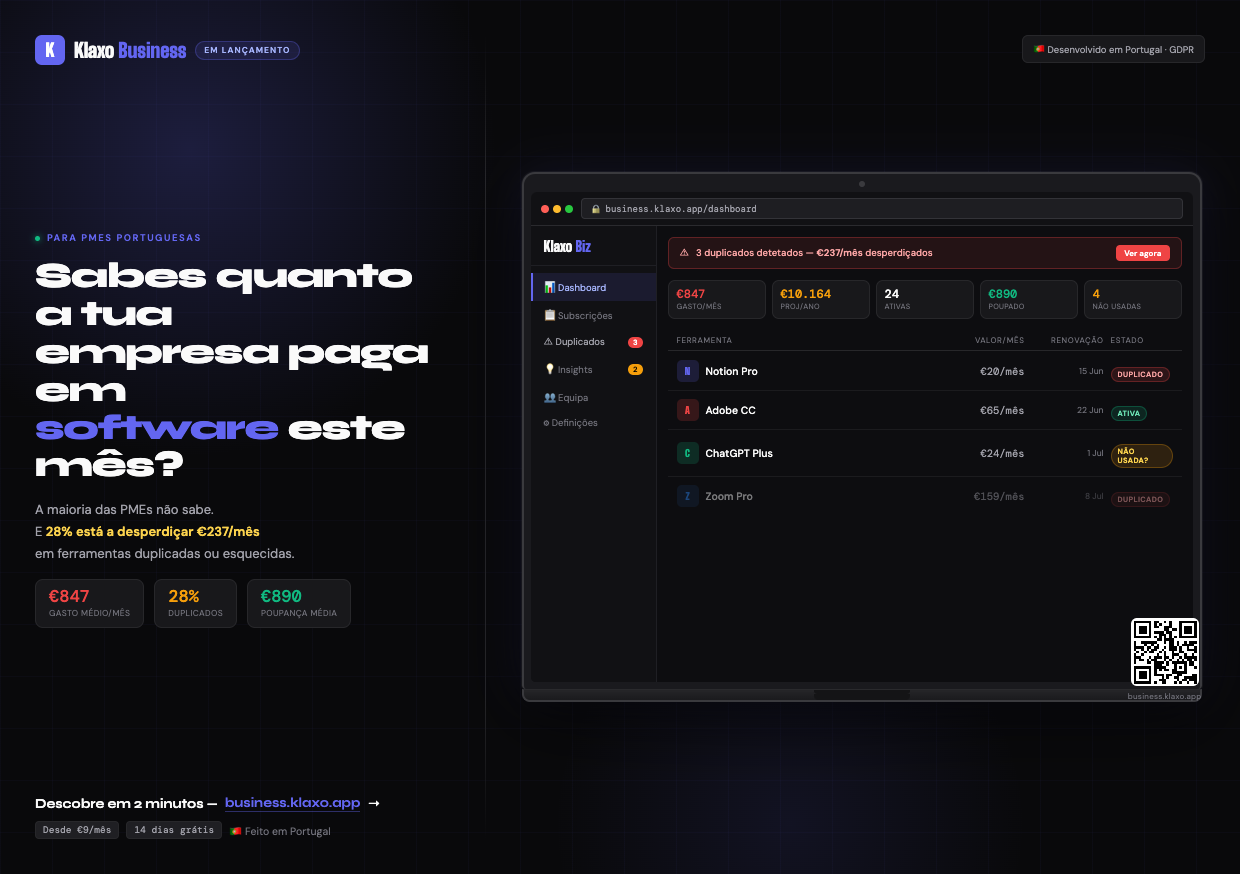
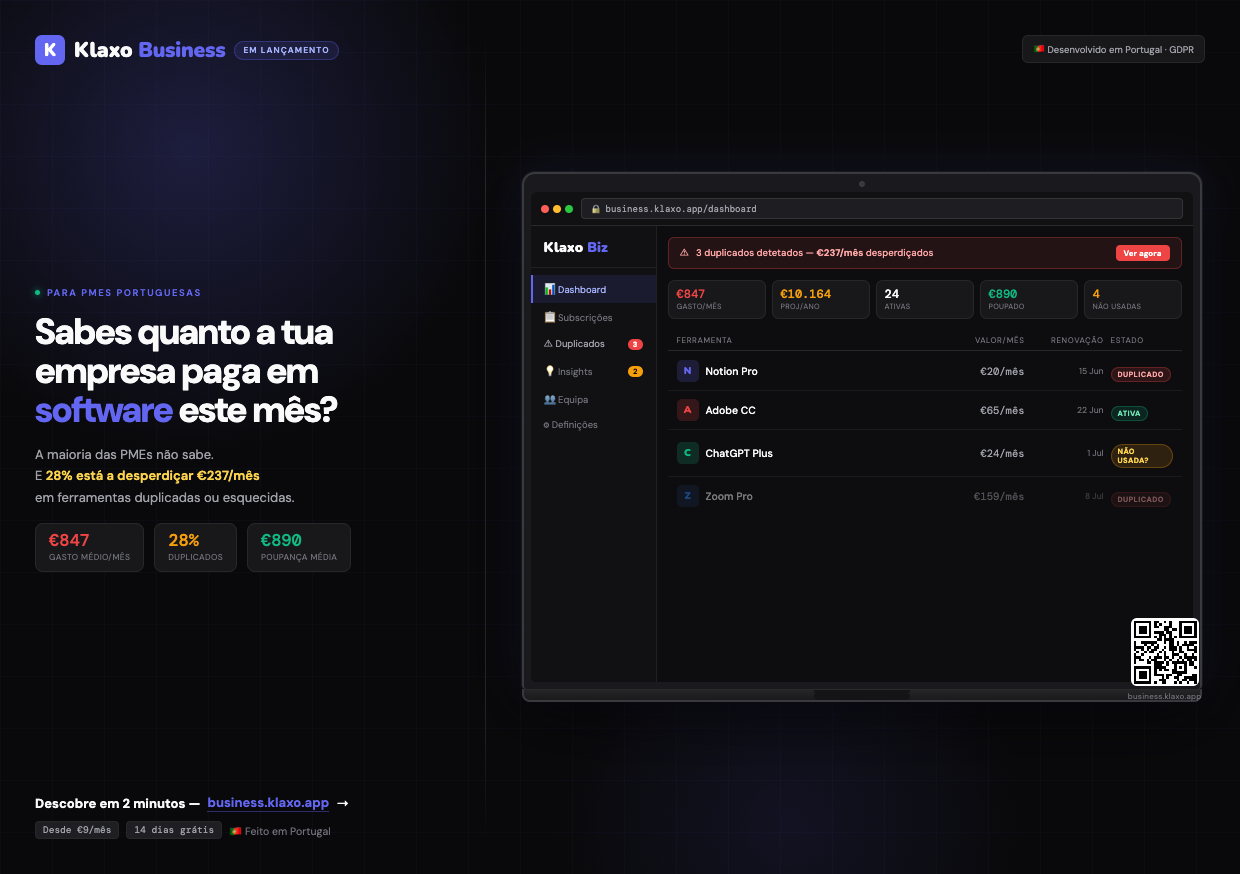
fix(flyers): Nunito 900 na logomarca, DM Sans nos títulos (fontes do site)

diff --git a/public/flyer-business.html b/public/flyer-business.html
@@ -5,7 +5,7 @@
 <title>Klaxo Business Flyer</title>
 <link rel="preconnect" href="https://fonts.googleapis.com"/>
 <link rel="preconnect" href="https://fonts.gstatic.com" crossorigin/>
-<link href="https://fonts.googleapis.com/css2?family=Big+Shoulders+Display:wght@900&family=Syne:wght@700;800&family=DM+Sans:ital,opsz,wght@0,9..40,400;0,9..40,500;0,9..40,600&family=DM+Mono:wght@400;500&display=swap" rel="stylesheet"/>
+<link href="https://fonts.googleapis.com/css2?family=Nunito:wght@900&family=DM+Sans:ital,opsz,wght@0,9..40,400;0,9..40,500;0,9..40,600;0,9..40,700;0,9..40,800&family=DM+Mono:wght@400;500&display=swap" rel="stylesheet"/>
 <style>
   *, *::before, *::after { box-sizing: border-box; margin: 0; padding: 0; }
   :root {
@@ -34,8 +34,8 @@
   .copy-col { width:418px; flex-shrink:0; display:flex; flex-direction:column; justify-content:space-between; z-index:2; }
 
   .logo-row { display:flex; align-items:center; gap:9px; }
-  .logo-icon { width:30px; height:30px; background:var(--v); border-radius:7px; display:flex; align-items:center; justify-content:center; font-family:'Big Shoulders Display',sans-serif; font-weight:900; font-size:18px; color:#fff; flex-shrink:0; }
-  .logo-text { font-family:'Big Shoulders Display',sans-serif; font-weight:900; font-size:20px; letter-spacing:-.01em; color:var(--t); }
+  .logo-icon { width:30px; height:30px; background:var(--v); border-radius:7px; display:flex; align-items:center; justify-content:center; font-family:'Nunito',sans-serif; font-weight:900; font-size:17px; color:#fff; flex-shrink:0; }
+  .logo-text { font-family:'Nunito',sans-serif; font-weight:900; font-size:21px; letter-spacing:-.01em; color:var(--t); }
   .logo-text em { font-style:normal; color:var(--v); }
   .launch-badge { background:var(--v10); border:1px solid rgba(99,102,241,.3); color:#A5B4FC; font-size:8.5px; font-weight:600; letter-spacing:.12em; padding:3px 8px; border-radius:100px; }
 
@@ -44,7 +44,7 @@
   .eyebrow { display:flex; align-items:center; gap:7px; font-size:9.5px; font-weight:600; letter-spacing:.16em; color:var(--v); text-transform:uppercase; }
   .eyebrow-dot { width:5px; height:5px; border-radius:50%; background:var(--g); box-shadow:0 0 7px var(--g); }
 
-  h1 { font-family:'Syne',sans-serif; font-weight:800; font-size:35px; line-height:1.08; letter-spacing:-.032em; color:var(--t); }
+  h1 { font-family:'DM Sans',sans-serif; font-weight:800; font-size:36px; line-height:1.08; letter-spacing:-.03em; color:var(--t); }
   h1 em { font-style:normal; color:var(--v); }
 
   .sub { font-size:13px; line-height:1.68; color:var(--m); }
@@ -57,7 +57,7 @@
   .sl { font-size:8.5px; color:var(--m2); text-transform:uppercase; letter-spacing:.04em; margin-top:3px; }
 
   .bottom-copy { display:flex; flex-direction:column; gap:9px; }
-  .cta-line { font-family:'Syne',sans-serif; font-size:13px; font-weight:700; color:var(--t); display:flex; align-items:center; gap:7px; flex-wrap:wrap; }
+  .cta-line { font-family:'DM Sans',sans-serif; font-size:13px; font-weight:700; color:var(--t); display:flex; align-items:center; gap:7px; flex-wrap:wrap; }
   .cta-url { color:var(--v); border-bottom:1px solid rgba(99,102,241,.4); }
   .price-note { font-size:10.5px; color:var(--m2); display:flex; align-items:center; gap:7px; flex-wrap:wrap; }
   .pchip { background:var(--s2); border:1px solid var(--bd); border-radius:4px; padding:2px 7px; font-family:'DM Mono',monospace; font-size:9.5px; color:var(--m); }
@@ -82,7 +82,7 @@
   .dash { background:#0D0D10; border-radius:0 0 5px 5px; display:flex; min-height:456px; overflow:hidden; }
 
   .sb { width:126px; background:#111114; border-right:1px solid #1F1F24; padding:12px 0; flex-shrink:0; }
-  .sb-logo { padding:0 13px 10px; font-family:'Big Shoulders Display',sans-serif; font-weight:900; font-size:14px; color:var(--t); border-bottom:1px solid #1F1F24; margin-bottom:7px; }
+  .sb-logo { padding:0 13px 10px; font-family:'Nunito',sans-serif; font-weight:900; font-size:14px; color:var(--t); border-bottom:1px solid #1F1F24; margin-bottom:7px; }
   .sb-logo em { font-style:normal; color:var(--v); }
   .ni { padding:6px 13px; font-size:9.5px; color:var(--m2); display:flex; align-items:center; justify-content:space-between; }
   .ni.act { background:var(--v10); color:#A5B4FC; border-left:2px solid var(--v); padding-left:11px; }
@@ -103,7 +103,7 @@
   .tr { display:grid; grid-template-columns:1fr 78px 72px 62px; gap:7px; padding:8px 9px; border-bottom:1px solid rgba(39,39,42,.55); align-items:center; }
   .tr:last-child { border-bottom:none; }
   .tc { display:flex; align-items:center; gap:7px; }
-  .ti { width:22px; height:22px; border-radius:5px; display:flex; align-items:center; justify-content:center; font-size:10px; font-weight:900; font-family:'Big Shoulders Display',sans-serif; flex-shrink:0; }
+  .ti { width:22px; height:22px; border-radius:5px; display:flex; align-items:center; justify-content:center; font-size:10px; font-weight:900; font-family:'Nunito',sans-serif; flex-shrink:0; }
   .tn { font-size:10.5px; color:var(--t); font-weight:500; }
   .tp { font-family:'DM Mono',monospace; font-size:10.5px; color:var(--m); text-align:right; }
   .trn { font-size:8.5px; color:var(--m2); text-align:right; }

diff --git a/public/flyer-personal.html b/public/flyer-personal.html
@@ -5,7 +5,7 @@
 <title>Klaxo Personal Flyer</title>
 <link rel="preconnect" href="https://fonts.googleapis.com"/>
 <link rel="preconnect" href="https://fonts.gstatic.com" crossorigin/>
-<link href="https://fonts.googleapis.com/css2?family=Big+Shoulders+Display:wght@900&family=Syne:wght@700;800&family=DM+Sans:ital,opsz,wght@0,9..40,400;0,9..40,500;0,9..40,600&family=DM+Mono:wght@400;500&display=swap" rel="stylesheet"/>
+<link href="https://fonts.googleapis.com/css2?family=Nunito:wght@900&family=DM+Sans:ital,opsz,wght@0,9..40,400;0,9..40,500;0,9..40,600;0,9..40,700;0,9..40,800&family=DM+Mono:wght@400;500&display=swap" rel="stylesheet"/>
 <style>
   *,*::before,*::after{box-sizing:border-box;margin:0;padding:0;}
   :root{
@@ -40,7 +40,7 @@
 
   .aheader{padding:7px 13px 9px;border-bottom:1px solid #1F1F24;flex-shrink:0;}
   .agreet{font-size:10px;color:#A1A1AA;margin-bottom:1px;}
-  .atitle{font-family:'Syne',sans-serif;font-size:13px;font-weight:800;color:#FAFAFA;}
+  .atitle{font-family:'DM Sans',sans-serif;font-size:13px;font-weight:800;color:#FAFAFA;}
 
   .totcard{margin:9px 11px 0;background:linear-gradient(135deg,rgba(239,68,68,.15),rgba(239,68,68,.05));border:1px solid rgba(239,68,68,.25);border-radius:11px;padding:9px 13px;flex-shrink:0;}
   .tl{font-size:8.5px;color:#FCA5A5;text-transform:uppercase;letter-spacing:.08em;margin-bottom:2px;}
@@ -49,7 +49,7 @@
 
   .slist{flex:1;overflow:hidden;padding:7px 11px;display:flex;flex-direction:column;gap:2px;}
   .srow{display:flex;align-items:center;gap:7px;padding:5px 7px;border-radius:8px;background:rgba(255,255,255,.03);}
-  .sico{width:24px;height:24px;border-radius:7px;display:flex;align-items:center;justify-content:center;font-size:11px;font-weight:900;font-family:'Big Shoulders Display',sans-serif;flex-shrink:0;}
+  .sico{width:24px;height:24px;border-radius:7px;display:flex;align-items:center;justify-content:center;font-size:11px;font-weight:900;font-family:'Nunito',sans-serif;flex-shrink:0;}
   .sinf{flex:1;min-width:0;}
   .sn{font-size:9.5px;color:#FAFAFA;font-weight:500;}
   .sw{font-size:7.5px;color:var(--y);}
@@ -69,15 +69,15 @@
   .copy-col{flex:1;display:flex;flex-direction:column;justify-content:space-between;z-index:2;padding-left:10px;}
 
   .logo-row{display:flex;align-items:center;gap:9px;}
-  .logo-icon{width:28px;height:28px;background:var(--v);border-radius:6px;display:flex;align-items:center;justify-content:center;font-family:'Big Shoulders Display',sans-serif;font-weight:900;font-size:17px;color:#fff;flex-shrink:0;}
-  .logo-text{font-family:'Big Shoulders Display',sans-serif;font-weight:900;font-size:20px;letter-spacing:-.01em;color:var(--t);}
+  .logo-icon{width:28px;height:28px;background:var(--v);border-radius:6px;display:flex;align-items:center;justify-content:center;font-family:'Nunito',sans-serif;font-weight:900;font-size:17px;color:#fff;flex-shrink:0;}
+  .logo-text{font-family:'Nunito',sans-serif;font-weight:900;font-size:20px;letter-spacing:-.01em;color:var(--t);}
   .pbadge{background:var(--v10);border:1px solid rgba(99,102,241,.22);color:var(--v);font-size:8.5px;font-weight:600;letter-spacing:.1em;padding:3px 9px;border-radius:100px;text-transform:uppercase;}
 
   .hblock{flex:1;display:flex;flex-direction:column;justify-content:center;gap:16px;padding:14px 0;}
   .eyebrow{display:flex;align-items:center;gap:7px;font-size:9.5px;font-weight:600;letter-spacing:.15em;color:var(--v);text-transform:uppercase;}
   .edot{width:5px;height:5px;border-radius:50%;background:var(--v);opacity:.55;}
 
-  h1{font-family:'Syne',sans-serif;font-weight:800;font-size:37px;line-height:1.07;letter-spacing:-.034em;color:var(--t);}
+  h1{font-family:'DM Sans',sans-serif;font-weight:800;font-size:37px;line-height:1.07;letter-spacing:-.034em;color:var(--t);}
   h1 em{font-style:normal;color:var(--v);}
 
   .sub{font-size:13px;line-height:1.68;color:var(--m);}
@@ -89,7 +89,7 @@
 
   .bcopy{display:flex;flex-direction:column;gap:10px;}
   .ctabox{background:var(--v);border-radius:10px;padding:11px 18px;display:inline-flex;align-items:center;justify-content:space-between;gap:10px;max-width:390px;}
-  .ctatxt{font-family:'Syne',sans-serif;font-size:13px;font-weight:700;color:#fff;line-height:1.3;}
+  .ctatxt{font-family:'DM Sans',sans-serif;font-size:13px;font-weight:700;color:#fff;line-height:1.3;}
   .ctaurl{font-size:10.5px;color:rgba(255,255,255,.72);font-family:'DM Mono',monospace;}
   .ctaarr{font-size:20px;color:#fff;flex-shrink:0;}
 
